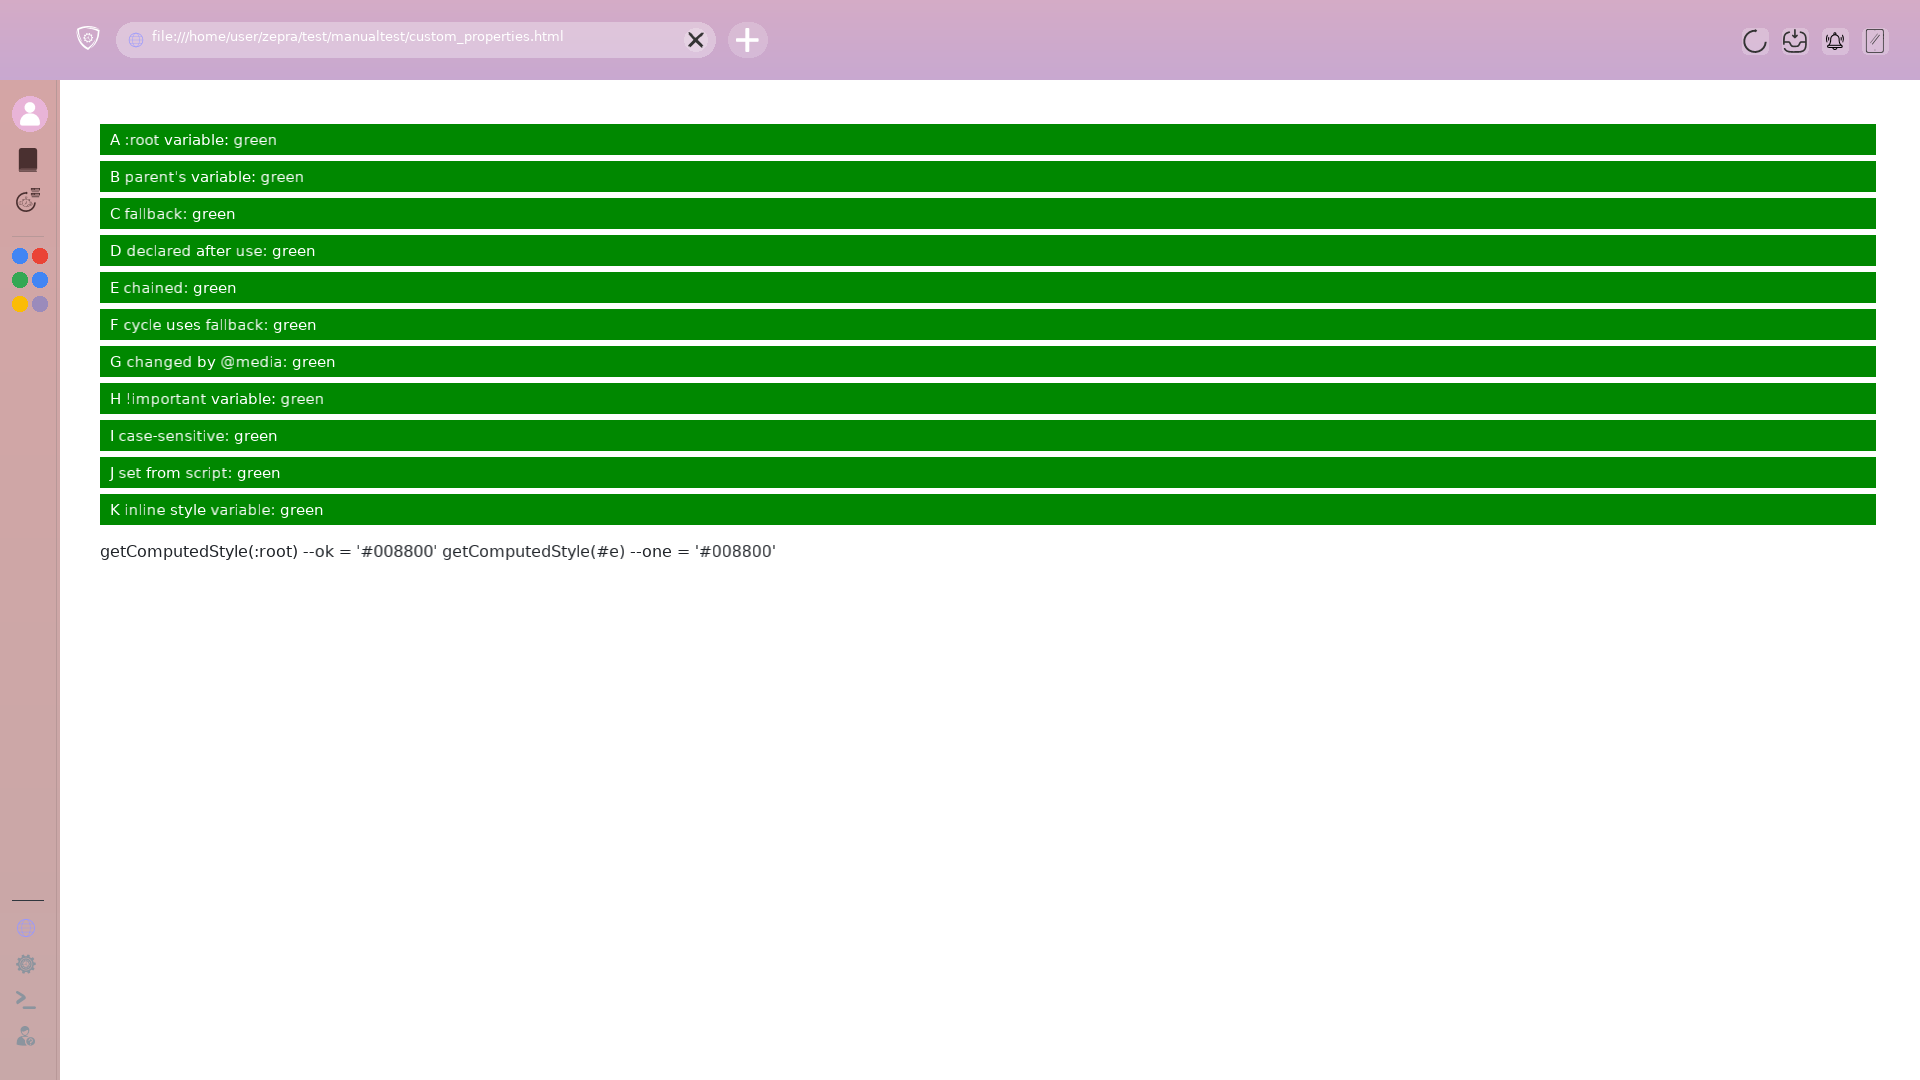
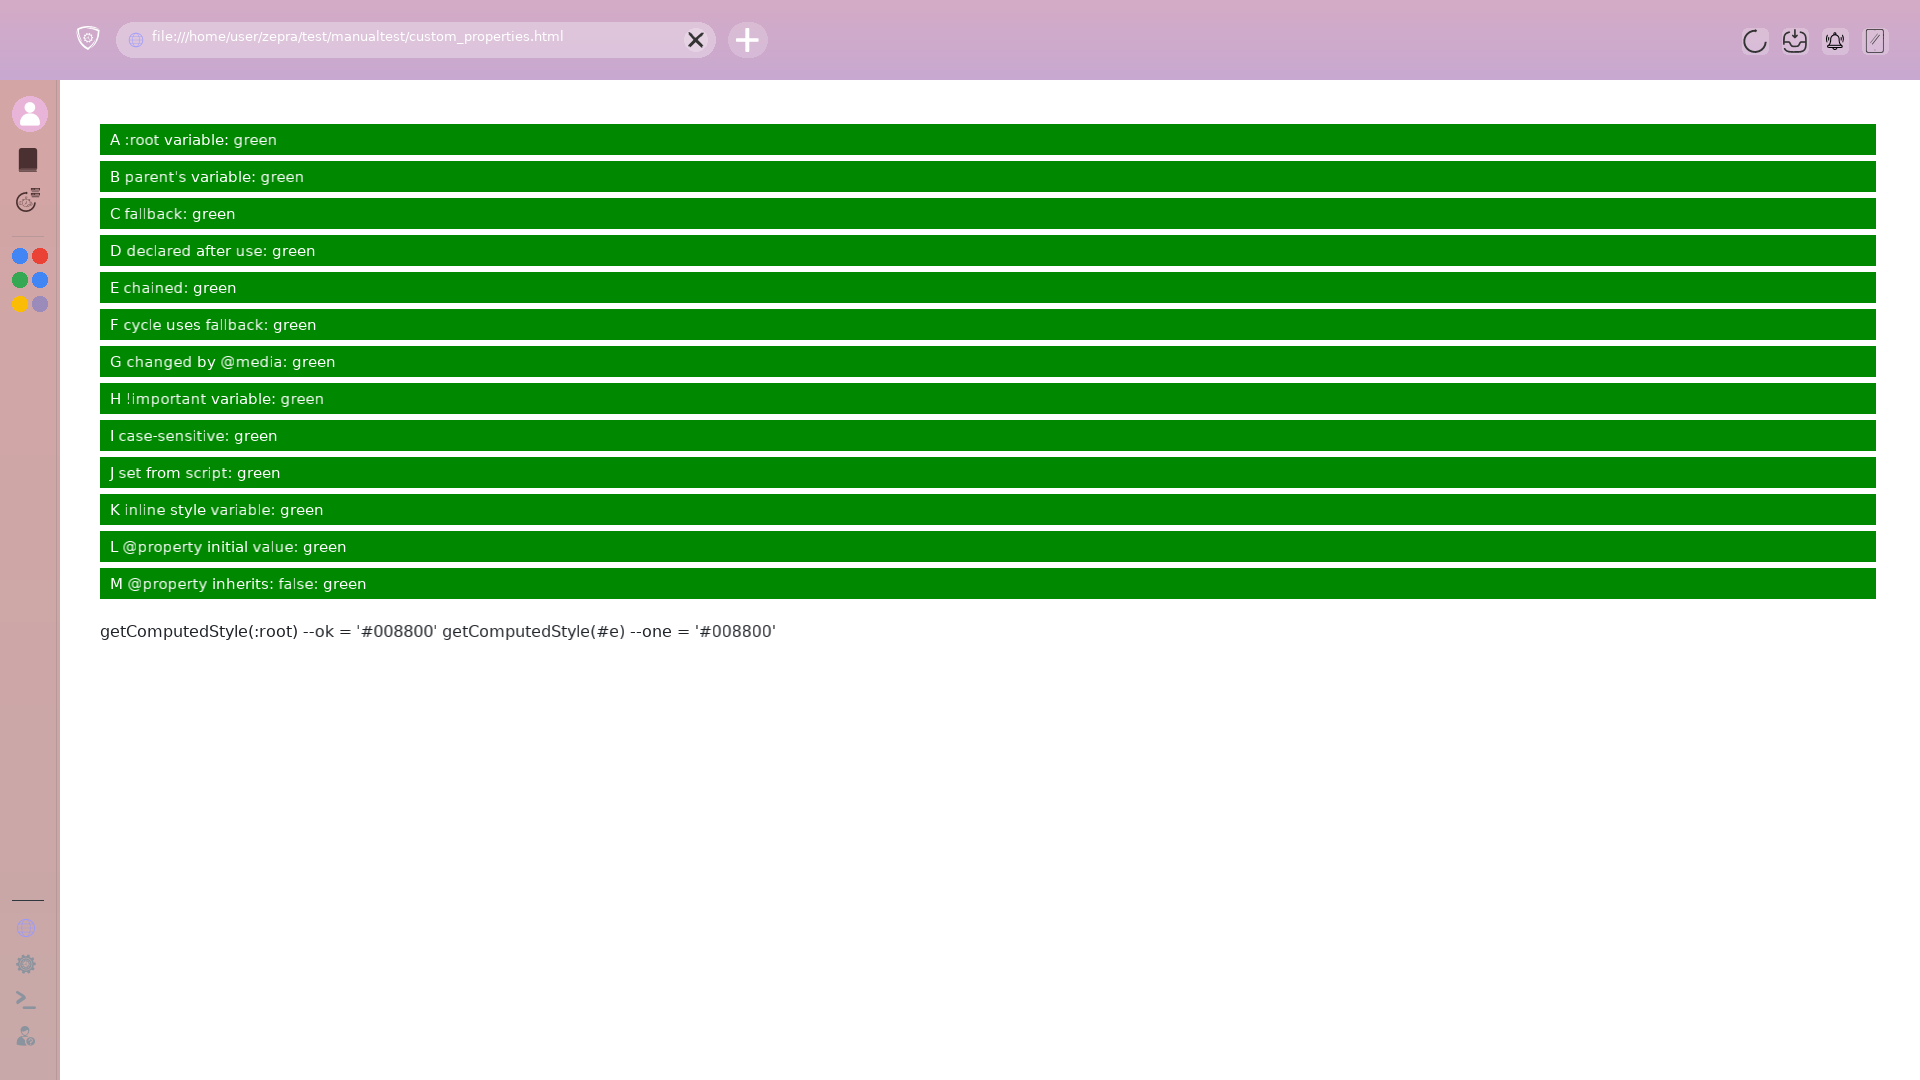
Support @property registered custom properties
@property rules were parsed as if they held style rules. Tailwind v4
registers its internal variables with them and uses var() without a
fallback, relying on their initial values.

- The parser reads @property --name { syntax; inherits; initial-value }
  and keeps the valid ones on the sheet (syntax must be a string, inherits
  true or false, and a syntax other than "*" needs an initial value).
- The resolver collects them from every sheet. A registered property
  starts at its initial value, a property with inherits: false resets to
  it on each element, and an invalid value behaves as unset.
- 3 new tests in webcore_custom_property_tests; 2 cases on the manual page.

Claude-Session: https://claude.ai/code/session_01W6TNWT93M8a9d6rjJcCAoG

Changed region(s): [[0.0312, 0.4889, 1.0, 0.6111]]

diff --git a/test/manualtest/custom_properties.html b/test/manualtest/custom_properties.html
@@ -29,6 +29,11 @@
   #h { --h: #008800 !important; background: var(--h); }
   /* I: case-sensitive names */
   #i { --Case: #008800; --case: var(--bad); background: var(--Case); }
+  /* L, M: @property initial values, and a property that doesn't inherit */
+  @property --reg-bg { syntax: "<color>"; inherits: false; initial-value: #008800; }
+  #l { background: var(--reg-bg); }
+  #m-parent { --reg-bg: #cc0000; }
+  #m { background: var(--reg-bg); }
   /* J: set from script */
   #j { background: var(--js, var(--bad)); }
 </style>
@@ -45,6 +50,8 @@
 <div class="box" id="i">I case-sensitive: green</div>
 <div class="box" id="j">J set from script: green</div>
 <div class="box" id="k" style="--inline: #008800; background: var(--inline)">K inline style variable: green</div>
+<div class="box" id="l">L @property initial value: green</div>
+<div id="m-parent"><div class="box" id="m">M @property inherits: false: green</div></div>
 <pre id="log"></pre>
 <script>
   document.getElementById('j').style.setProperty('--js', '#008800');

diff --git a/source/webCore/css/custom_properties.cpp b/source/webCore/css/custom_properties.cpp
@@ -153,13 +153,60 @@ bool substituteVarFunctions(const std::string& value, const CustomPropertyMap& v
 
 std::shared_ptr<const CustomPropertyMap> resolveCustomProperties(
     const std::shared_ptr<const CustomPropertyMap>& inherited,
-    const CustomPropertyMap& declared) {
-    if (declared.empty()) return inherited;
+    const CustomPropertyMap& declared,
+    const RegisteredPropertyMap* registered) {
+    if (registered && registered->empty()) registered = nullptr;
+    if (declared.empty() && !registered) return inherited;
 
-    auto inheritedValue = [&](const std::string& name) -> const std::string* {
+    auto parentValue = [&](const std::string& name) -> const std::string* {
         if (!inherited) return nullptr;
         auto it = inherited->find(name);
         return it != inherited->end() ? &it->second : nullptr;
+    };
+    auto registration = [&](const std::string& name) -> const RegisteredCustomProperty* {
+        if (!registered) return nullptr;
+        auto it = registered->find(name);
+        return it != registered->end() ? &it->second : nullptr;
+    };
+
+    // What the element starts from before its own declarations: the parent's
+    // values, except that registered properties which don't inherit (or have
+    // no value yet) take their initial value
+    std::shared_ptr<const CustomPropertyMap> base = inherited;
+    if (registered) {
+        bool changes = false;
+        for (const auto& [name, reg] : *registered) {
+            const std::string* parent = parentValue(name);
+            bool wantsInitial = !reg.inherits || !parent;
+            if (!wantsInitial) continue;
+            if (reg.hasInitialValue ? (!parent || *parent != reg.initialValue) : parent != nullptr) {
+                changes = true;
+                break;
+            }
+        }
+        if (changes) {
+            auto copy = std::make_shared<CustomPropertyMap>(inherited ? *inherited : CustomPropertyMap());
+            for (const auto& [name, reg] : *registered) {
+                if (reg.inherits && parentValue(name)) continue;
+                if (reg.hasInitialValue) (*copy)[name] = reg.initialValue;
+                else copy->erase(name);
+            }
+            base = copy;
+        }
+    }
+    if (declared.empty()) return base;
+
+    auto baseValue = [&](const std::string& name) -> const std::string* {
+        if (!base) return nullptr;
+        auto it = base->find(name);
+        return it != base->end() ? &it->second : nullptr;
+    };
+    // The value a registered property falls back to: unset
+    auto unsetValue = [&](const std::string& name, const RegisteredCustomProperty& reg) -> const std::string* {
+        if (reg.inherits) {
+            if (const std::string* parent = parentValue(name)) return parent;
+        }
+        return reg.hasInitialValue ? &reg.initialValue : nullptr;
     };
 
     enum class State { Pending, Resolving, Done };
@@ -177,7 +224,7 @@ std::shared_ptr<const CustomPropertyMap> resolveCustomProperties(
     std::function<const std::string*(const std::string&)> resolve =
         [&](const std::string& name) -> const std::string* {
         auto it = entries.find(name);
-        if (it == entries.end()) return inheritedValue(name);
+        if (it == entries.end()) return baseValue(name);
         Entry& e = it->second;
         if (e.state == State::Resolving) {
             // A dependency cycle: everything on it is invalid
@@ -190,14 +237,18 @@ std::shared_ptr<const CustomPropertyMap> resolveCustomProperties(
         if (e.state == State::Pending) {
             e.state = State::Resolving;
             stack.push_back(name);
+            const RegisteredCustomProperty* reg = registration(name);
             std::string keyword = lower(e.raw);
+            auto take = [&](const std::string* v) {
+                e.valid = v != nullptr;
+                if (v) e.value = *v;
+            };
             if (keyword == "initial") {
-                e.valid = false;
-            } else if (keyword == "inherit" || keyword == "unset" || keyword == "revert" ||
-                       keyword == "revert-layer") {
-                const std::string* parent = inheritedValue(name);
-                e.valid = parent != nullptr;
-                if (parent) e.value = *parent;
+                take(reg && reg->hasInitialValue ? &reg->initialValue : nullptr);
+            } else if (keyword == "inherit") {
+                take(parentValue(name));
+            } else if (keyword == "unset" || keyword == "revert" || keyword == "revert-layer") {
+                take(reg ? unsetValue(name, *reg) : parentValue(name));
             } else if (containsVarFunction(e.raw)) {
                 std::string out;
                 e.valid = substitute(e.raw, resolve, out, 0);
@@ -212,11 +263,16 @@ std::shared_ptr<const CustomPropertyMap> resolveCustomProperties(
         return e.valid && !e.inCycle ? &e.value : nullptr;
     };
 
-    auto result = std::make_shared<CustomPropertyMap>(inherited ? *inherited : CustomPropertyMap());
+    auto result = std::make_shared<CustomPropertyMap>(base ? *base : CustomPropertyMap());
     for (auto& [name, entry] : entries) resolve(name);
     for (auto& [name, entry] : entries) {
-        if (entry.valid && !entry.inCycle) (*result)[name] = entry.value;
-        else result->erase(name);
+        if (entry.valid && !entry.inCycle) {
+            (*result)[name] = entry.value;
+        } else if (const RegisteredCustomProperty* reg = registration(name); reg && unsetValue(name, *reg)) {
+            (*result)[name] = *unsetValue(name, *reg);  // invalid at computed-value time: unset
+        } else {
+            result->erase(name);
+        }
     }
     return result;
 }

diff --git a/test/webcore_custom_property_tests.cpp b/test/webcore_custom_property_tests.cpp
@@ -270,3 +270,80 @@ TEST(CustomPropertyScripting, GetComputedStyleReportsCustomProperties) {
     EXPECT_EQ(eval("document.getElementById('d').style.setProperty('--Brand', 'rgb(0, 0, 255)'); cs.color"),
               "rgb(0, 0, 255)");
 }
+
+// ---------------------------------------------------------------------------
+// @property (registered custom properties)
+// ---------------------------------------------------------------------------
+
+TEST(RegisteredCustomProperties, InitialValuesAndInheritance) {
+    RegisteredPropertyMap reg;
+    reg["--size"] = {"<length>", false, true, "4px"};    // doesn't inherit
+    reg["--tone"] = {"<color>", true, true, "green"};    // inherits
+    reg["--any"] = {"*", true, false, ""};               // no initial value
+
+    // The root: registered properties start at their initial value
+    auto root = resolveCustomProperties(nullptr, {}, &reg);
+    ASSERT_TRUE(root);
+    EXPECT_EQ(root->at("--size"), "4px");
+    EXPECT_EQ(root->at("--tone"), "green");
+    EXPECT_EQ(root->count("--any"), 0u);
+
+    auto parent = resolveCustomProperties(root, {{"--size", "10px"}, {"--tone", "red"}, {"--uses", "var(--size)"}}, &reg);
+    EXPECT_EQ(parent->at("--size"), "10px");
+    EXPECT_EQ(parent->at("--uses"), "10px");
+
+    // A child: --size resets to its initial value, --tone is inherited
+    auto child = resolveCustomProperties(parent, {}, &reg);
+    EXPECT_EQ(child->at("--size"), "4px");
+    EXPECT_EQ(child->at("--tone"), "red");
+    // Nothing to change: the parent's map is shared
+    auto grandchild = resolveCustomProperties(child, {}, &reg);
+    EXPECT_EQ(grandchild, child);
+
+    // Keywords and invalid values
+    auto other = resolveCustomProperties(parent, {{"--size", "inherit"}, {"--tone", "initial"},
+                                                  {"--bad", "var(--nope)"}}, &reg);
+    EXPECT_EQ(other->at("--size"), "10px");
+    EXPECT_EQ(other->at("--tone"), "green");
+    EXPECT_EQ(other->count("--bad"), 0u);
+    auto invalid = resolveCustomProperties(parent, {{"--size", "var(--nope)"}, {"--tone", "var(--nope)"}}, &reg);
+    EXPECT_EQ(invalid->at("--size"), "4px");   // unset on a non-inherited property: initial
+    EXPECT_EQ(invalid->at("--tone"), "red");   // unset on an inherited property: the parent's
+}
+
+TEST(RegisteredCustomProperties, ParsingAtPropertyRules) {
+    CSSParser parser;
+    auto sheet = parser.parse(
+        "@property --ok { syntax: '<length>'; inherits: false; initial-value: 0px; }"
+        "@property --star { syntax: \"*\"; inherits: true; }"
+        "@property --no-inherits { syntax: '*'; initial-value: 1; }"
+        "@property --no-initial { syntax: '<color>'; inherits: true; }"
+        "@property --unquoted { syntax: <length>; inherits: true; initial-value: 0px; }"
+        "@property not-custom { syntax: '*'; inherits: true; }"
+        "@property --var-initial { syntax: '<length>'; inherits: true; initial-value: var(--x); }"
+        "p { color: green; }");
+    ASSERT_TRUE(sheet);
+    const auto& regs = sheet->propertyRegistrations();
+    ASSERT_EQ(regs.size(), 2u);
+    EXPECT_EQ(regs[0].first, "--ok");
+    EXPECT_EQ(regs[0].second.syntax, "<length>");
+    EXPECT_FALSE(regs[0].second.inherits);
+    EXPECT_EQ(regs[0].second.initialValue, "0px");
+    EXPECT_EQ(regs[1].first, "--star");
+    EXPECT_TRUE(regs[1].second.inherits);
+    EXPECT_FALSE(regs[1].second.hasInitialValue);
+    // The rule after the @property rules still parses
+    EXPECT_EQ(sheet->cssRules()->length(), 1u);
+}
+
+TEST_F(CustomPropertyCascadeTest, AtPropertyGivesInitialValuesAndStopsInheritance) {
+    // Tailwind v4 registers its internal variables this way and relies on the
+    // initial values (utilities use var() without a fallback)
+    load("@property --tw-text { syntax: '<color>'; inherits: false; initial-value: rgb(0, 128, 0); }"
+         "@property --tw-ring { syntax: '*'; inherits: false; initial-value: 0 0 #0000; }"
+         "#outer { --tw-text: red; color: var(--tw-text); }"
+         "p { color: var(--tw-text); }");
+    EXPECT_EQ(color("outer"), kRed);
+    EXPECT_EQ(color("p"), kGreen);   // not inherited from #outer: the initial value
+    EXPECT_EQ(color("q"), kGreen);
+}

diff --git a/source/webCore/css/css_engine.cpp b/source/webCore/css/css_engine.cpp
@@ -380,8 +380,12 @@ void CSSParser::parseRulesInto(CSSStyleSheet* sheet, int depth) {
                 continue;  // end of input
             }
 
-            if (atWord == "layer" || atWord == "supports" || 
-                atWord == "theme" || atWord == "property") {
+            if (atWord == "property") {
+                parsePropertyRule(sheet);
+                continue;
+            }
+
+            if (atWord == "layer" || atWord == "supports" || atWord == "theme") {
                 // Skip name/condition
                 while (!eof() && peek() != '{' && peek() != ';') consume();
                 if (peek() == ';') {
@@ -411,6 +415,48 @@ void CSSParser::parseRulesInto(CSSStyleSheet* sheet, int depth) {
         // spins forever on the UI thread (a stray "{ ... }" with no selector did)
         if (pos_ == before) skipInvalidRule();
     }
+}
+
+// @property --name { syntax: "<length>"; inherits: false; initial-value: 0px; }
+// (CSS Properties and Values API 1, 3). An invalid rule is ignored.
+void CSSParser::parsePropertyRule(CSSStyleSheet* sheet) {
+    std::string name;
+    while (!eof() && peek() != '{' && peek() != ';') name += consume();
+    if (peek() == ';') { consume(); return; }
+    if (!match('{')) return;
+    CSSStyleDeclaration descriptors;
+    parseDeclarations(&descriptors);
+    if (peek() == '}') consume();
+
+    auto trimmed = [](std::string v) {
+        size_t b = v.find_first_not_of(" \t\r\n"), e = v.find_last_not_of(" \t\r\n");
+        return b == std::string::npos ? std::string() : v.substr(b, e - b + 1);
+    };
+    name = trimmed(name);
+    if (!isCustomPropertyName(name) || !sheet) return;
+    std::string syntax = trimmed(descriptors.getPropertyValue("syntax"));
+    if (syntax.size() >= 2 && (syntax.front() == '"' || syntax.front() == '\'') && syntax.back() == syntax.front()) {
+        syntax = trimmed(syntax.substr(1, syntax.size() - 2));
+    } else {
+        syntax.clear();  // the syntax descriptor is a string
+    }
+    std::string inherits = descriptors.getPropertyValue("inherits");
+    for (char& c : inherits) c = static_cast<char>(std::tolower(static_cast<unsigned char>(c)));
+    inherits = trimmed(inherits);
+    if (syntax.empty() || (inherits != "true" && inherits != "false")) return;
+
+    RegisteredCustomProperty reg;
+    reg.syntax = syntax;
+    reg.inherits = inherits == "true";
+    for (size_t i = 0; i < descriptors.length(); i++) {
+        if (descriptors.item(i) == "initial-value") {
+            reg.hasInitialValue = true;
+            reg.initialValue = trimmed(descriptors.getPropertyValue("initial-value"));
+        }
+    }
+    // Anything but the universal syntax needs a computationally independent initial value
+    if (syntax != "*" && (!reg.hasInitialValue || containsVarFunction(reg.initialValue))) return;
+    sheet->addPropertyRegistration(name, std::move(reg));
 }
 
 // Error recovery for an unreadable rule (CSS Syntax 3, "consume a qualified rule"):

diff --git a/source/webCore/css/style_resolver.cpp b/source/webCore/css/style_resolver.cpp
@@ -67,6 +67,10 @@ StyleResolver::StyleResolver() {
 StyleResolver::~StyleResolver() = default;
 
 void StyleResolver::addStyleSheet(std::shared_ptr<CSSStyleSheet> sheet, StyleOrigin origin) {
+    if (sheet) {
+        // A later @property for the same name replaces an earlier one
+        for (const auto& [name, reg] : sheet->propertyRegistrations()) registered_[name] = reg;
+    }
     stylesheets_.push_back({std::move(sheet), origin});
     cascade_.invalidateIndex();
 }
@@ -153,7 +157,7 @@ CSSComputedStyle StyleResolver::computeStyle(DOMElement* element, const CSSCompu
     declaredCustom_ = &declared;
     runCascade();
     declaredCustom_ = nullptr;
-    computed.customProperties = resolveCustomProperties(computed.customProperties, declared);
+    computed.customProperties = resolveCustomProperties(computed.customProperties, declared, &registered_);
     // Then every other property, with var() substituted from them
     pass_ = Pass::SkipCustom;
     runCascade();
@@ -314,7 +318,7 @@ void StyleResolver::applyDeclarations(CSSComputedStyle& style,
                 (*declaredCustom_)[property] = value;  // later declarations win
             } else {
                 // A single pass (pseudo-elements): resolve as it comes
-                style.customProperties = resolveCustomProperties(style.customProperties, {{property, value}});
+                style.customProperties = resolveCustomProperties(style.customProperties, {{property, value}}, &registered_);
             }
             continue;
         }

diff --git a/source/webCore/css/custom_properties.hpp b/source/webCore/css/custom_properties.hpp
@@ -26,6 +26,15 @@ namespace Zepra::WebCore {
 /// Custom property name ("--x", case-sensitive) to its resolved value
 using CustomPropertyMap = std::map<std::string, std::string>;
 
+/// A custom property registered with @property (CSS Properties and Values API)
+struct RegisteredCustomProperty {
+    std::string syntax = "*";
+    bool inherits = true;
+    bool hasInitialValue = false;
+    std::string initialValue;
+};
+using RegisteredPropertyMap = std::map<std::string, RegisteredCustomProperty>;
+
 /// True for a custom property name: "--" followed by at least one character
 bool isCustomPropertyName(const std::string& name);
 
@@ -46,9 +55,14 @@ bool substituteVarFunctions(const std::string& value, const CustomPropertyMap& v
  * work (initial removes the property; inherit/unset keep the parent's).
  * Properties in a dependency cycle, or whose var() can't be resolved,
  * become guaranteed-invalid (removed).
+ *
+ * With `registered` properties: a property that doesn't inherit starts from
+ * its initial value instead of the parent's, a registered property with no
+ * value takes its initial value, and an invalid value behaves as unset.
  */
 std::shared_ptr<const CustomPropertyMap> resolveCustomProperties(
     const std::shared_ptr<const CustomPropertyMap>& inherited,
-    const CustomPropertyMap& declared);
+    const CustomPropertyMap& declared,
+    const RegisteredPropertyMap* registered = nullptr);
 
 }  // namespace Zepra::WebCore

diff --git a/source/webCore/css/css_style_sheet.hpp b/source/webCore/css/css_style_sheet.hpp
@@ -10,6 +10,8 @@
 #include <string>
 #include <vector>
 #include <memory>
+#include <utility>
+#include "css/custom_properties.hpp"
 
 namespace Zepra::WebCore {
 
@@ -123,9 +125,18 @@ public:
     /// Parse and set content
     void parseContent(const std::string& cssText);
 
+    /// The sheet's valid @property rules, in source order
+    const std::vector<std::pair<std::string, RegisteredCustomProperty>>& propertyRegistrations() const {
+        return propertyRegistrations_;
+    }
+    void addPropertyRegistration(std::string name, RegisteredCustomProperty reg) {
+        propertyRegistrations_.emplace_back(std::move(name), std::move(reg));
+    }
+
 private:
     CSSRule* ownerRule_ = nullptr;
     std::unique_ptr<CSSRuleList> cssRules_;
+    std::vector<std::pair<std::string, RegisteredCustomProperty>> propertyRegistrations_;
 };
 
 /**

diff --git a/source/webCore/css/css_engine.hpp b/source/webCore/css/css_engine.hpp
@@ -236,6 +236,7 @@ private:
     enum class Pass { All, CustomOnly, SkipCustom };
     Pass pass_ = Pass::All;
     CustomPropertyMap* declaredCustom_ = nullptr;  // the custom pass's winners
+    RegisteredPropertyMap registered_;             // @property rules of every sheet
 
     std::vector<StyleSheetEntry> stylesheets_;
     std::unordered_map<DOMElement*, CSSComputedStyle> styleCache_;
@@ -289,6 +290,7 @@ private:
     std::unique_ptr<CSSImportRule> parseImportRule();
     void parseRulesInto(CSSStyleSheet* sheet, int depth);
     void skipInvalidRule();
+    void parsePropertyRule(CSSStyleSheet* sheet);
 
     std::string parseSelector_();
     std::string parseDeclarationBlock();
